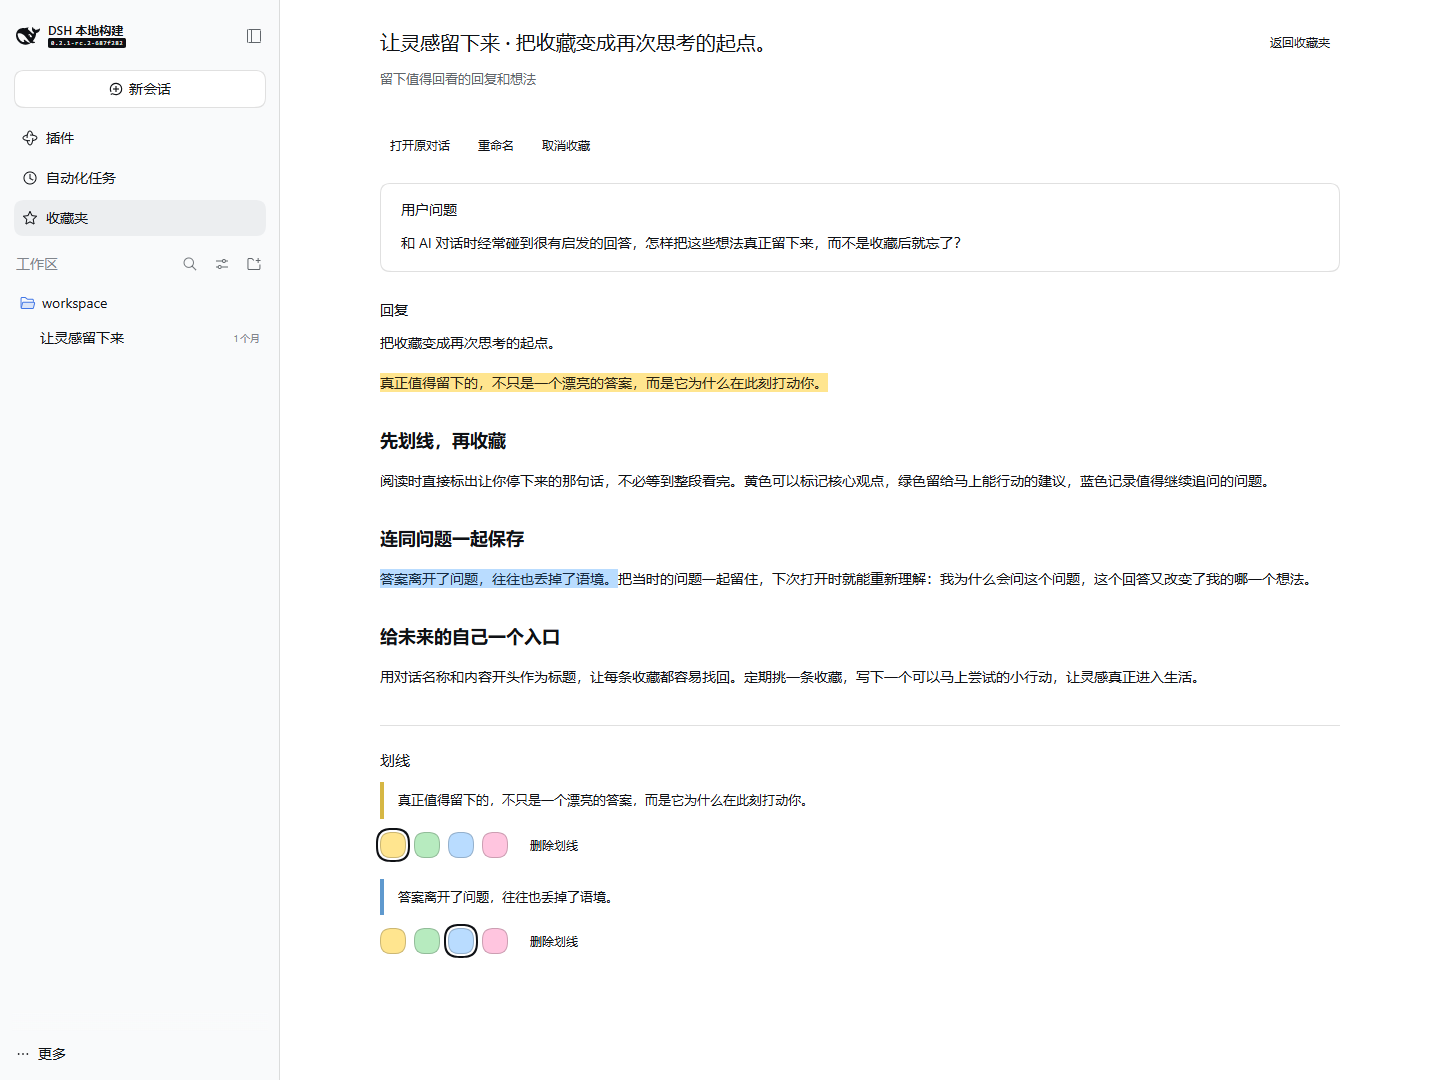
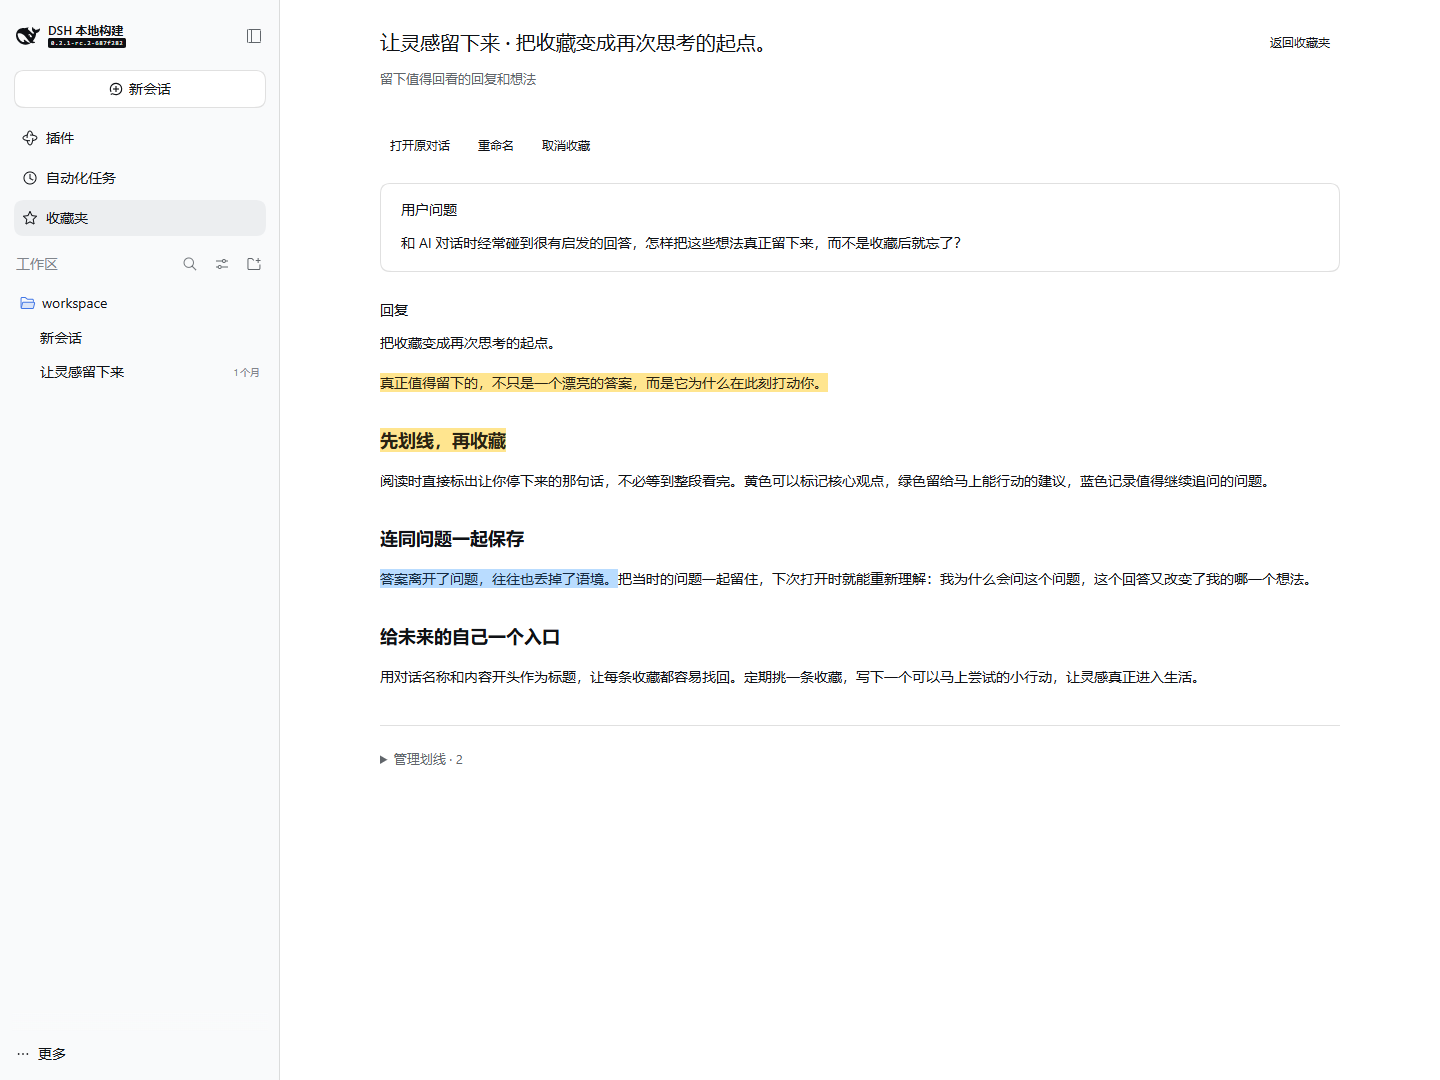
fix: restore saved highlights inline across Markdown blocks

diff --git a/tests/text-dom.test.ts b/tests/text-dom.test.ts
@@ -3,6 +3,7 @@ import { test } from 'node:test'
 import assert from 'node:assert/strict'
 import { JSDOM } from 'jsdom'
 import { indexText, rangeAt, TextHighlighter } from '../src/client/text-dom.ts'
+import { makeAnchor, sourceSchema, type ReadingRecord } from '../src/schema.ts'
 
 test('indexes rendered Markdown across inline nodes without toolbar or reasoning text', () => {
   const dom = new JSDOM('<div id="reply"><p>Hello <strong>important</strong> idea.</p><button>Copy</button><div data-variant="think">private reasoning</div></div>')
@@ -25,4 +26,41 @@ test('unsupported browsers still release observers and publish no selection afte
     dom.window.document.dispatchEvent(new dom.window.Event('selectionchange'))
     assert.equal(seen.length, after)
   } finally { dom.window.close() }
+})
+
+
+test('saved replies paint existing cross-block highlights on the original text after Markdown adds separator newlines', () => {
+  const dom = new JSDOM('<div id="chat"><div><p>First <strong>important</strong> line.</p></div><div><p>Second point.</p></div></div><div id="reader"><p>First <strong>important</strong> line.</p>\n<p>Second point.</p></div>')
+  const frames = new Map<number, FrameRequestCallback>()
+  let frameId = 0
+  class NativeHighlight extends Set<Range> {
+    constructor(...ranges: Range[]) { super(ranges) }
+  }
+  const registry = new Map<string, NativeHighlight>()
+  Object.defineProperties(dom.window, {
+    Highlight: { value: NativeHighlight }, CSS: { value: { highlights: registry } },
+    requestAnimationFrame: { value: (callback: FrameRequestCallback) => { frames.set(++frameId, callback); return frameId } },
+    cancelAnimationFrame: { value: (id: number) => { frames.delete(id) } },
+  })
+  const highlighter = new TextHighlighter(dom.window.document, () => {})
+  try {
+    const chat = dom.window.document.getElementById('chat')!
+    const reader = dom.window.document.getElementById('reader')!
+    const original = indexText([chat]).text
+    const source = sourceSchema.parse({ sessionId: 'cross-block-session', messageId: 'reply', nodeKey: 'reply', seq: 1, markdown: 'First **important** line.\n\nSecond point.', plainText: original, title: 'Cross-block reply' })
+    const record: ReadingRecord = { ...source, highlights: [{ id: '00000000-0000-4000-8000-000000000001', color: 'yellow', anchor: makeAnchor(original, 6, original.length) }], savedAt: 1, updatedAt: 1, revision: 1 }
+    highlighter.bind(reader, record, true)
+    highlighter.update([record])
+    for (const [id, callback] of frames) { frames.delete(id); callback(0) }
+    const ranges = [...(registry.get('reading-yellow') ?? [])]
+    assert.equal(ranges.length, 1)
+    assert.equal(ranges[0]!.toString(), 'important line.\nSecond point.')
+    assert(reader.contains(ranges[0]!.startContainer))
+    assert(reader.contains(ranges[0]!.endContainer))
+    highlighter.unbind(reader)
+    for (const [id, callback] of frames) { frames.delete(id); callback(0) }
+    assert.equal(registry.get('reading-yellow')?.size, 0)
+  } finally { highlighter.dispose(); dom.window.close() }
+  assert.equal(frames.size, 0)
+  assert.equal(registry.size, 0)
 })

diff --git a/src/client/locales.ts b/src/client/locales.ts
@@ -6,7 +6,7 @@ export const en = {
   yellow: 'Yellow', green: 'Green', blue: 'Blue', pink: 'Pink', highlight: 'Highlight selection', erase: 'Remove highlight', highlighted: 'Highlight saved', erased: 'Highlight removed',
   loadError: 'Could not load your collection', saveError: 'Could not save your changes', retry: 'Retry', loading: 'Loading collection', close: 'Close',
   unsupported: 'This browser does not support text highlights. Use a current Chrome, Edge, Firefox, or Safari.',
-  saved: 'Collected', draft: 'Highlight draft', highlights: 'Highlights', orphan: 'Some marked text could not be located. Its saved quote is preserved below.',
+  saved: 'Collected', draft: 'Highlight draft', highlights: 'Highlights', manageHighlights: 'Manage highlights', orphan: 'Some marked text could not be located. Its saved quote is preserved below.',
   question: 'Your question', answer: 'Reply', untitledConversation: 'Untitled conversation', loadQuestion: 'Load the question above this reply before collecting', questionUnavailable: 'This older collection has no saved question. The reply and highlights remain available.', questionWithoutText: 'The user message contains no text. Attachments are not copied into collections.',
   sourceError: 'Could not open the source conversation. The saved reply is still available.', copy: 'Copy', copied: 'Copied', footnotes: 'Footnotes',
 } as const
@@ -17,7 +17,7 @@ export const zh: Record<keyof typeof en, string> = {
   yellow: '黄色', green: '绿色', blue: '蓝色', pink: '粉色', highlight: '划线标记', erase: '删除划线', highlighted: '已保存划线', erased: '已删除划线',
   loadError: '无法加载收藏夹', saveError: '无法保存修改', retry: '重试', loading: '正在加载收藏夹', close: '关闭',
   unsupported: '此浏览器不支持文字高亮，请使用新版 Chrome、Edge、Firefox 或 Safari',
-  saved: '已收藏', draft: '划线草稿', highlights: '划线', orphan: '部分划线无法在正文中定位，原文摘录仍保留在下方',
+  saved: '已收藏', draft: '划线草稿', highlights: '划线', manageHighlights: '管理划线', orphan: '部分划线无法在正文中定位，原文摘录仍保留在下方',
   question: '用户问题', answer: '回复', untitledConversation: '未命名对话', loadQuestion: '请先向上加载这条回复对应的用户问题，再收藏', questionUnavailable: '此旧收藏未保存用户问题，回复和划线仍可查看', questionWithoutText: '用户消息不含文字；收藏暂不复制附件',
   sourceError: '无法打开原对话，仍可查看已保存的回复', copy: '复制', copied: '已复制', footnotes: '脚注',
 }

diff --git a/src/client/components.tsx b/src/client/components.tsx
@@ -102,12 +102,12 @@ export function CollectionPanel({ useLibrary, change, load, attach, detach, open
       </section>
       <h2 className="rc-answer-heading">{t('answer')}</h2>
       <Reader record={record} attach={attach} detach={detach} t={t} />
-      {record.highlights.length > 0 && <section className="rc-quotes" aria-label={t('highlights')}><h2>{t('highlights')}</h2>
+      {record.highlights.length > 0 && <details className="rc-quotes"><summary>{t('manageHighlights')} · {record.highlights.length}</summary>
         {record.highlights.map(mark => <div className="rc-quote" key={mark.id}><blockquote data-reading-color={mark.color}>{mark.anchor.quote}</blockquote>
           <ColorButtons t={t} disabled={state.pending > 0} selected={mark.color} apply={color => { void change({ kind: 'recolor', key: recordKey(record), id: mark.id, color }, 'highlighted') }} />
           <Button size="sm" disabled={state.pending > 0} onClick={() => { void change({ kind: 'remove-highlight', key: recordKey(record), id: mark.id }, 'erased') }}>{t('erase')}</Button>
         </div>)}
-      </section>}
+      </details>}
       <Modal open={renaming} title={t('rename')} closeLabel={t('close')} onClose={() => { setRenaming(false) }} footer={<><Button onClick={() => { setRenaming(false) }}>{t('cancel')}</Button><Button variant="primary" disabled={title.trim() === '' || state.pending > 0} onClick={() => { void change({ kind: 'rename', key: recordKey(record), title }, 'renamed').then(ok => { if (ok) setRenaming(false) }) }}>{t('save')}</Button></>}>
         <label className="rc-title-field">{t('title')}<input data-modal-autofocus value={title} maxLength={300} onChange={event => { setTitle(event.target.value) }} /></label>
       </Modal>

diff --git a/src/schema.ts b/src/schema.ts
@@ -42,10 +42,28 @@ export function makeAnchor(text: string, start: number, end: number): Anchor {
   return anchorSchema.parse({ start, end, quote: text.slice(start, end), prefix: text.slice(Math.max(0, start - 40), start), suffix: text.slice(end, end + 40) })
 }
 
-/** Resolve text after Markdown rendering changes; ambiguous matches remain unpainted.
+/** Restore quotes across Markdown separator-newline changes; ambiguous matches remain unpainted.
  * @param text Current rendered text. @param anchor Saved quote and context. @returns Unique matching span, or absence.
  */
 export function resolveAnchor(text: string, anchor: Anchor): { start: number; end: number } | undefined {
+  if (text.includes(anchor.quote)) return resolveQuote(text, anchor)
+  let normalized = ''
+  const offsets: number[] = []
+  for (let index = 0; index < text.length; index++) {
+    const character = text[index]!
+    if (character === '\r' || character === '\n') continue
+    normalized += character
+    offsets.push(index)
+  }
+  const withoutBreaks = (value: string): string => value.replace(/[\r\n]/g, '')
+  const quote = withoutBreaks(anchor.quote)
+  if (quote === '') return undefined
+  const span = resolveQuote(normalized, { quote, prefix: withoutBreaks(anchor.prefix), suffix: withoutBreaks(anchor.suffix) })
+  if (span === undefined) return undefined
+  return { start: offsets[span.start]!, end: offsets[span.end - 1]! + 1 }
+}
+
+function resolveQuote(text: string, anchor: Pick<Anchor, 'quote' | 'prefix' | 'suffix'>): { start: number; end: number } | undefined {
   const matches: { start: number; score: number }[] = []
   let offset = text.indexOf(anchor.quote)
   while (offset !== -1) {

diff --git a/tests/reading.test.ts b/tests/reading.test.ts
@@ -137,3 +137,16 @@ test('collecting a changed reply does not replace saved question or highlights',
   assert.equal(after.question, undefined)
   assert.equal(after.highlights.length, 1)
 })
+
+
+test('quote restoration tolerates Markdown separator newlines without guessing between repeated passages', () => {
+  const original = 'Before first block.Second block after.'
+  const anchor = makeAnchor(original, 7, 31)
+  const rendered = 'Before first block.\nSecond block after.'
+  const span = resolveAnchor(rendered, anchor)!
+  assert.equal(rendered.slice(span.start, span.end), 'first block.\nSecond block')
+  const multiline = makeAnchor('first block.\r\nSecond block', 0, 26)
+  assert.deepEqual(resolveAnchor('first block.Second block', multiline), { start: 0, end: 24 })
+  assert.equal(resolveAnchor('first\nblock first\nblock', { start: 0, end: 10, quote: 'firstblock', prefix: '', suffix: '' }), undefined)
+  assert.equal(resolveAnchor('ab', { start: 0, end: 3, quote: 'a b', prefix: '', suffix: '' }), undefined)
+})

diff --git a/src/client/styles.css b/src/client/styles.css
@@ -49,3 +49,5 @@
 .rc-question h2 { margin: 0 0 12px; font-size: 14px; font-weight: 500; }
 .rc-answer-heading { margin: 0 auto 12px; font-size: 14px; font-weight: 500; }
 .rc-question > p { font-size: 13px; line-height: 1.6; color: var(--dsw-alias-label-secondary); }
+.rc-quotes > summary { cursor: pointer; font-size: 13px; color: var(--dsw-alias-label-secondary); }
+.rc-quotes[open] > summary { margin-bottom: 20px; }

diff --git a/README.md b/README.md
@@ -7,7 +7,7 @@ description: "Highlight completed DSH replies before collecting their text and a
 
 [中文](README.zh.md) | [English](README.md)
 
-> **Compatibility:** plugin `0.1.1` requires **DSH `0.2.1-rc.2` · Web**.
+> **Compatibility:** plugin `0.1.2` requires **DSH `0.2.1-rc.2` · Web**.
 >
 > `package.json` pins `engines.dsh` to this exact version. Other DSH versions, including newer releases, and Desktop installation have not been verified.
 
@@ -45,13 +45,13 @@ Open a collection to read the saved user question, reply, and colored highlights
 <a id="use-this-package"></a>
 ## Use this package
 
-Install the supplied `dsh-reading-collection-0.1.1.tgz` through the Plugins page or the CLI for your Web profile, then restart that profile. With sibling `DSH` and `DSH_plugin/reading-collection` directories, run from the Harness checkout:
+Install the supplied `dsh-reading-collection-0.1.2.tgz` through the Plugins page or the CLI for your Web profile, then restart that profile. With sibling `DSH` and `DSH_plugin/reading-collection` directories, run from the Harness checkout:
 
 ```sh
-pnpm dsh plugin --profile web add ../DSH_plugin/reading-collection/artifacts/dsh-reading-collection-0.1.1.tgz
+pnpm dsh plugin --profile web add ../DSH_plugin/reading-collection/artifacts/dsh-reading-collection-0.1.2.tgz
 ```
 
-Select text in a completed reply and choose yellow, green, blue, or pink. Click an existing highlight to change or remove it. The five-point star below the reply collects its full Markdown, existing highlights, and the corresponding user question by default. The default title combines the conversation name with the opening of the reply; you can rename it afterward. Open Collection in the sidebar to search reply text, saved questions, and highlights, rename a collection, read, edit highlights, or open the source conversation. Removing a collection keeps its highlight draft.
+Select text in a completed reply and choose yellow, green, blue, or pink. Click an existing highlight to change or remove it. The five-point star below the reply collects its full Markdown, existing highlights, and the corresponding user question by default. The default title combines the conversation name with the opening of the reply; you can rename it afterward. Open Collection in the sidebar to search reply text, saved questions, and highlights, rename a collection, read, edit highlights, or open the source conversation. Saved replies show colored highlights directly on their original text, including selections across Markdown blocks. The Manage highlights section stays collapsed until you open it to browse quotes or use its controls. Removing a collection keeps its highlight draft.
 
 Changes show as saved only after the Host commits them. A failed operation keeps existing data and offers Retry. Data is stored in the `reading_collection` storage domain under the Harness home, using the profile's configured storage provider. Unloading the bundle removes its UI without deleting its data.
 
@@ -65,7 +65,7 @@ This directory is an independent Git repository. Run plugin Git commands here an
 <details>
 <summary>Implementation internals</summary>
 
-The profile patch mounts one Host plugin and its browser contribution. The Host validates owner-only RPC requests and serializes mutations to versioned storage records. The browser uses additive Chat, sidebar, main-panel, and overlay slots. A release-specific DOM adapter maps text selections to completed Chat nodes and paints CSS Custom Highlights without modifying React-owned content. Exact quotes and surrounding text locate highlights after layout changes; ambiguous matches remain unpainted and their saved quotes remain available.
+The profile patch mounts one Host plugin and its browser contribution. The Host validates owner-only RPC requests and serializes mutations to versioned storage records. The browser uses additive Chat, sidebar, main-panel, and overlay slots. A release-specific DOM adapter maps text selections to completed Chat nodes and paints CSS Custom Highlights without modifying React-owned content. Exact quotes and surrounding text locate highlights after layout changes, with separator-newline differences mapped back to the rendered text; ambiguous matches remain unpainted and their saved quotes remain available.
 
 </details>
 

diff --git a/README.zh.md b/README.zh.md
@@ -7,7 +7,7 @@ description: "在 DSH 回复中先划线，再将全文与标记一起收藏。"
 
 [中文](README.zh.md) | [English](README.md)
 
-> **兼容版本：** 插件 `0.1.1` 要求 **DSH `0.2.1-rc.2` · Web 端**。
+> **兼容版本：** 插件 `0.1.2` 要求 **DSH `0.2.1-rc.2` · Web 端**。
 >
 > `package.json` 中的 `engines.dsh` 精确限定此版本。其他 DSH 版本（包括更新版本）及桌面端安装尚未验证。
 
@@ -45,13 +45,13 @@ description: "在 DSH 回复中先划线，再将全文与标记一起收藏。"
 <a id="use-this-package"></a>
 ## 使用
 
-通过插件页面或 CLI，将提供的 `dsh-reading-collection-0.1.1.tgz` 安装到 Web profile，然后重启该 profile。使用并列的 `DSH` 和 `DSH_plugin/reading-collection` 目录时，在 Harness 源码仓库中运行：
+通过插件页面或 CLI，将提供的 `dsh-reading-collection-0.1.2.tgz` 安装到 Web profile，然后重启该 profile。使用并列的 `DSH` 和 `DSH_plugin/reading-collection` 目录时，在 Harness 源码仓库中运行：
 
 ```sh
-pnpm dsh plugin --profile web add ../DSH_plugin/reading-collection/artifacts/dsh-reading-collection-0.1.1.tgz
+pnpm dsh plugin --profile web add ../DSH_plugin/reading-collection/artifacts/dsh-reading-collection-0.1.2.tgz
 ```
 
-在已完成的回复中选中文字，再选择黄色、绿色、蓝色或粉色。点击已有划线可改色或删除。回复下方的五角星按钮默认会把完整 Markdown、已有划线和对应的用户问题一起收藏。默认标题为“对话名称 · 回复开头”，之后可以重命名。从侧栏打开收藏夹，可搜索回复、已保存的问题与划线，重命名收藏、阅读、编辑划线或打开原对话。取消收藏会保留划线草稿。
+在已完成的回复中选中文字，再选择黄色、绿色、蓝色或粉色。点击已有划线可改色或删除。回复下方的五角星按钮默认会把完整 Markdown、已有划线和对应的用户问题一起收藏。默认标题为“对话名称 · 回复开头”，之后可以重命名。从侧栏打开收藏夹，可搜索回复、已保存的问题与划线，重命名收藏、阅读、编辑划线或打开原对话。收藏中的彩色划线直接显示在回复原文中，也支持跨 Markdown 块的选区；下方“管理划线”默认收起，需要查看摘录或使用管理控件时再展开。取消收藏会保留划线草稿。
 
 主机提交成功后，界面才会显示已保存。操作失败会保留已有数据，并提供重试。数据使用 profile 配置的存储提供方，保存在 Harness 主目录下的 `reading_collection` 存储域中。卸载 bundle 会移除界面，不会删除数据。
 
@@ -65,7 +65,7 @@ pnpm dsh plugin --profile web add ../DSH_plugin/reading-collection/artifacts/dsh
 <details>
 <summary>实现细节</summary>
 
-Profile 补丁挂载一个主机插件和对应的浏览器贡献。主机验证仅所有者可调用的 RPC 请求，并按顺序写入带版本的存储记录。浏览器通过 Chat、侧栏、主面板和浮层插槽添加功能。适配当前版本的 DOM 适配器将选区对应到已完成的 Chat 节点，使用 CSS Custom Highlight 绘制，不修改 React 管理的正文。原文摘录和前后文用于在布局变化后定位划线；无法唯一定位时不绘制，已保存的摘录仍可查看。
+Profile 补丁挂载一个主机插件和对应的浏览器贡献。主机验证仅所有者可调用的 RPC 请求，并按顺序写入带版本的存储记录。浏览器通过 Chat、侧栏、主面板和浮层插槽添加功能。适配当前版本的 DOM 适配器将选区对应到已完成的 Chat 节点，使用 CSS Custom Highlight 绘制，不修改 React 管理的正文。原文摘录和前后文用于在布局变化后定位划线，并将 Markdown 分隔换行的差异映射回实际正文位置；无法唯一定位时不绘制，已保存的摘录仍可查看。
 
 </details>
 
